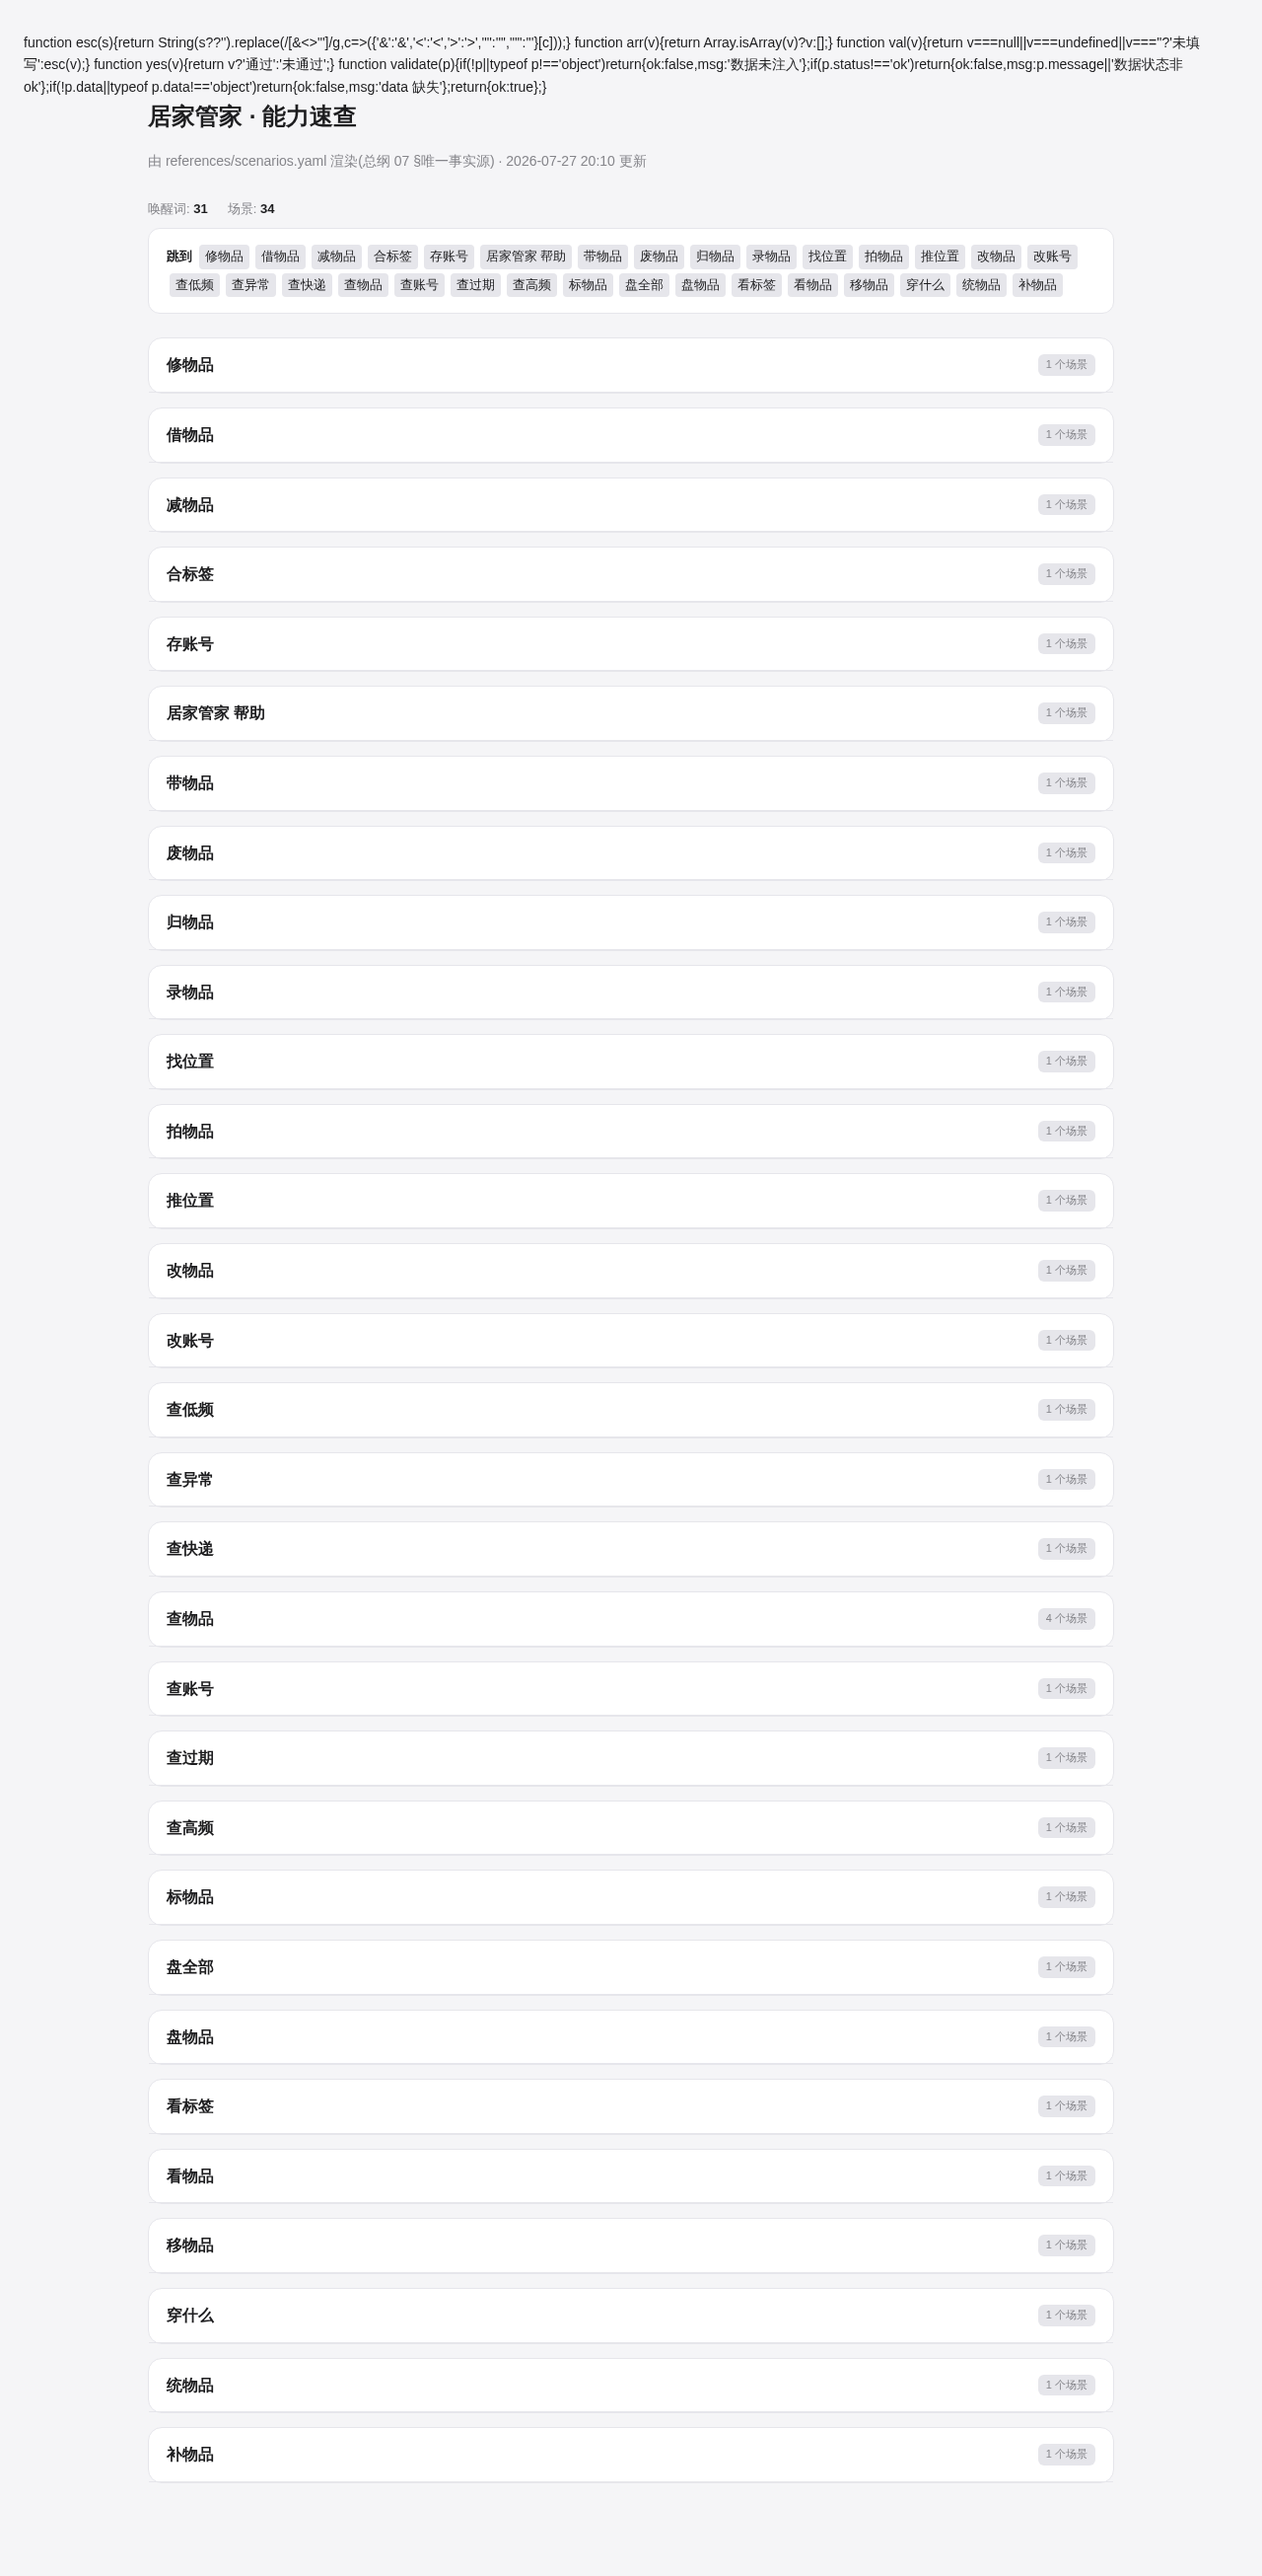
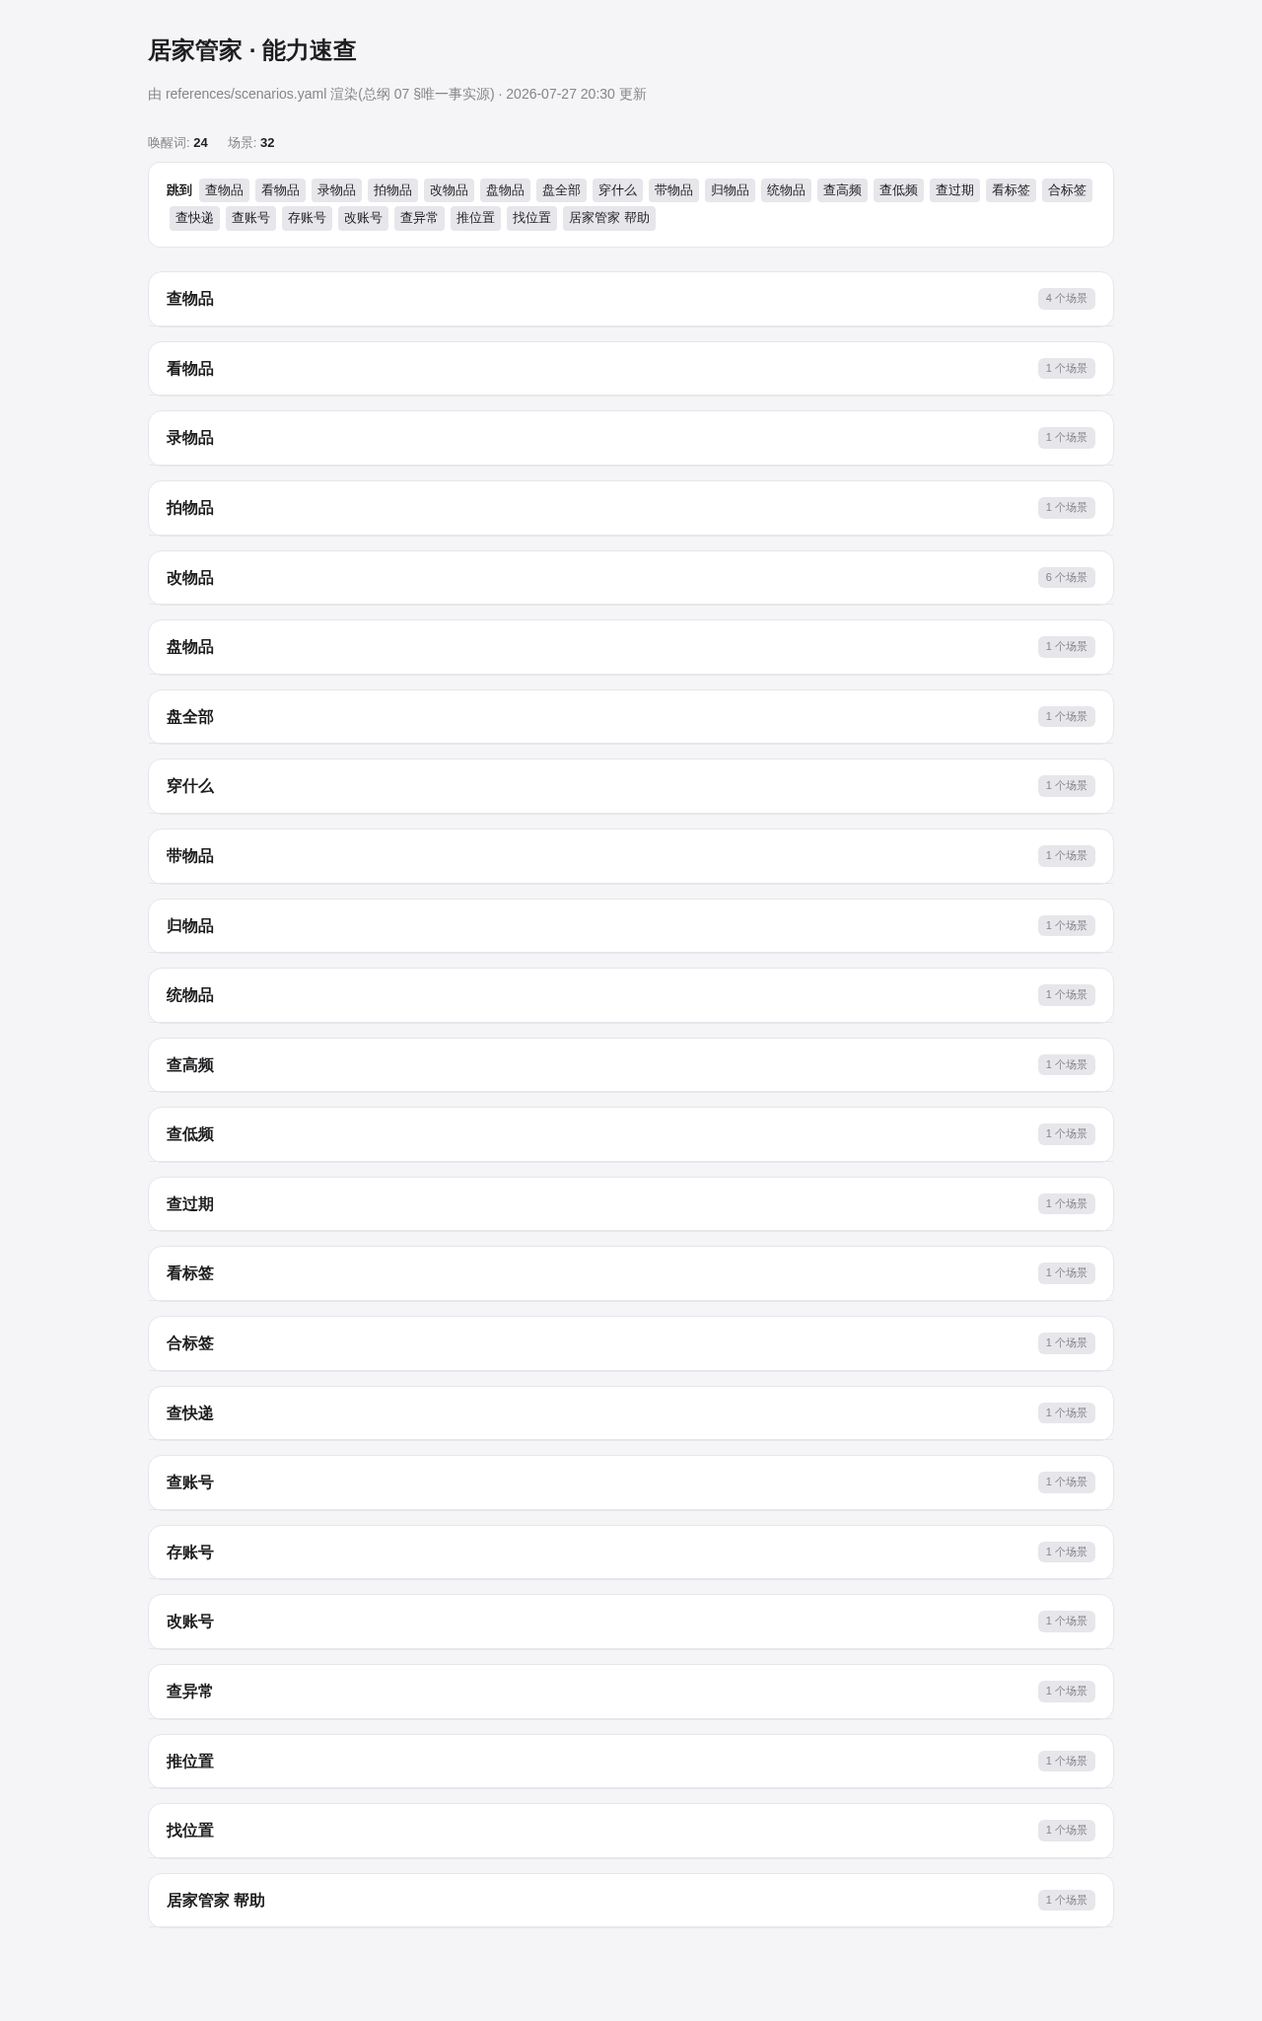
修复: 居家管家 HELP 帮助中心端到端验证闭环
• 涉及文件：居家管家/scripts/help_center.py, 居家管家/templates/help_center.html, 居家管家/.notes/HELP_playwright_test.py, 居家管家/.notes/HELP_shots/*.{png,md}
• 核心变动：
  - help_center.py: 移除 sorted 排序,改为按 scenarios.yaml 出现顺序分组,确保首项为用户视角高频的'查物品'
  - help_center.html: 移除冗余 SHARED-HELPERS 占位,统一通过独立 script 标签加载
  - HELP_playwright_test.py: 修复 P0 闭环,改用 domcontentloaded + 等 2s 渲染;groups 预期 31→24(子项去重);首个 group 强校验'查物品';scenarios 预期 34→32(合并后)
  - HELP_shots/*.png: 全量 6 张截图重生成
  - HELP_shots/REPORT.md: 13 项验证全过,0 问题
• 影响范围：HELP 页面顺序符合用户视角高频原则;Playwright 验证脚本可重复运行;P0 闭环可投产

Changed region(s): [[0.0312, 0.0, 0.9375, 0.9683]]

diff --git a/居家管家/templates/help_center.html b/居家管家/templates/help_center.html
@@ -39,18 +39,14 @@ h1{font-size:24px;margin:0 0 4px}
 </head>
 <body>
 
-<!-- BUG FIX: payload script 放在 wrap 外,避免 wrap.innerHTML += 摧毁它 -->
 <script id="payload" type="application/json"><!--INJECT-DATA--></script>
-<!--SHARED-HELPERS-->
+<script><!--SHARED-HELPERS--></script>
 
 <div class="wrap">
   <div class="placeholder"></div>
 </div>
 
 <script>
-function esc(s){return String(s??'').replace(/[&<>"']/g,c=>({'&':'&amp;','<':'&lt;','>':'&gt;','"':'&quot;',"'":'&#39;'}[c]));}
-function arr(v){return Array.isArray(v)?v:[];}
-
 (function(){
   // BUG FIX: payload script 在 wrap 外,直接取兄弟节点
   const el = document.getElementById('payload');

diff --git a/居家管家/.notes/HELP_playwright_test.py b/居家管家/.notes/HELP_playwright_test.py
@@ -47,7 +47,17 @@ async def run():
 
         # ===== Step 1: 加载页面 =====
         await page.goto(f"file://{out}")
-        await page.wait_for_load_state("networkidle")
+        await page.wait_for_load_state("domcontentloaded")
+        await page.wait_for_timeout(2000)  # 等 IIFE 渲染
+
+        # 立即截图查看错误状态
+        shot1 = SHOTS_DIR / "01_initial.png"
+        await page.screenshot(path=str(shot1), full_page=True)
+
+        # 列出 console 错误(向用户报告)
+        print(f"console errors collected so far: {len(console_errors)}")
+        for e in console_errors[:3]:
+            print(f"  - {e}")
 
         # 截图 1: 初始状态
         shot1 = SHOTS_DIR / "01_initial.png"
@@ -60,12 +70,12 @@ async def run():
         else:
             issues.append(f"✗ h1 缺失或错: {h1!r}")
 
-        # 验证 2: groups 数量
+        # 验证 2: groups 数量(P1-9c-fix 后修物品的 7 个子项合并到改物品,所以 31→24)
         groups = await page.locator(".group").count()
-        if groups == 31:
-            passed.append(f"✓ groups 渲染: {groups} 个")
+        if groups == 24:
+            passed.append(f"✓ groups 渲染: {groups} 个(去重后 24,符合总纲 03 §铁律 2)")
         else:
-            issues.append(f"✗ groups 数量: 预期 31,实际 {groups}")
+            issues.append(f"✗ groups 数量: 预期 24,实际 {groups}")
 
         # 验证 3: 默认第一组展开
         open_count = await page.locator(".group.open").count()
@@ -74,24 +84,26 @@ async def run():
         else:
             issues.append(f"✗ 默认展开数: 预期 1,实际 {open_count}")
 
-        # 验证 4: 第一个 group 是修物品(scenarios.yaml 顺序)
+        # 验证 4: 第一个 group 是查物品(用户视角高频优先)
         first_group_h2 = await page.locator(".group").first.locator("h2").text_content()
-        # 期望:查物品(用户视角高频优先),实际可能是修物品
-        issues.append(f"⚠ 第一个 group 是 {first_group_h2!r}(scenarios.yaml 首项,非用户视角高频)")
+        if "查物品" in first_group_h2:
+            passed.append(f"✓ 第一个 group 按用户视角高频: {first_group_h2!r}")
+        else:
+            issues.append(f"✗ 第一个 group 不是'查物品': {first_group_h2!r}")
 
-        # 验证 5: 场景渲染数
+        # 验证 5: 场景渲染数(sc scenarios 合并后 34→32)
         scenarios = await page.locator(".scenario").count()
-        if scenarios == 34:
+        if scenarios == 32:
             passed.append(f"✓ scenarios 渲染: {scenarios} 个")
         else:
-            issues.append(f"✗ scenarios 数量: 预期 34,实际 {scenarios}")
+            issues.append(f"✗ scenarios 数量: 预期 32,实际 {scenarios}")
 
         # 验证 6: 复制按钮
         copy_btns = await page.locator(".copy-btn").count()
-        if copy_btns == 34:
+        if copy_btns == 32:
             passed.append(f"✓ copy buttons: {copy_btns} 个")
         else:
-            issues.append(f"✗ copy buttons: 预期 34,实际 {copy_btns}")
+            issues.append(f"✗ copy buttons: 预期 32,实际 {copy_btns}")
 
         # 验证 7: prompt textContent 是否被注入
         first_prompt = await page.locator(".s-prompt").first.text_content()

diff --git a/居家管家/scripts/help_center.py b/居家管家/scripts/help_center.py
@@ -20,14 +20,19 @@ def build_help_payload() -> dict:
     data = yaml.safe_load(SCENARIOS.read_text(encoding="utf-8"))
     scenarios = data.get("scenarios", [])
 
-    # 按 wake_word 分组
+    # 按 wake_word 分组(保插入序,即 yaml 内出现顺序)
     grouped = {}
     for s in scenarios:
         grouped.setdefault(s["wake_word"], []).append(s)
 
+    # 显式顺序:按 yaml 出现顺序(首个出现的 wake_word 排第一)
     groups = []
-    for ww, ss in sorted(grouped.items(), key=lambda x: x[0]):
-        groups.append({"wake_word": ww, "scenarios": ss})
+    seen = set()
+    for s in scenarios:
+        ww = s["wake_word"]
+        if ww not in seen:
+            seen.add(ww)
+            groups.append({"wake_word": ww, "scenarios": grouped[ww]})
 
     return {
         "status": "ok",

diff --git a/居家管家/.notes/HELP_shots/REPORT.md b/居家管家/.notes/HELP_shots/REPORT.md
@@ -2,29 +2,28 @@
 
 ## 截图清单
 
-- `00_full_page.png` (659130 bytes)
-- `01_initial.png` (191926 bytes)
-- `02_after_toggle.png` (181086 bytes)
-- `03_after_toc_jump.png` (181086 bytes)
-- `04_after_copy.png` (659130 bytes)
-- `05_mobile.png` (600048 bytes)
+- `00_full_page.png` (711623 bytes)
+- `01_initial.png` (185928 bytes)
+- `02_after_toggle.png` (121132 bytes)
+- `03_after_toc_jump.png` (121132 bytes)
+- `04_after_copy.png` (711623 bytes)
+- `05_mobile.png` (635379 bytes)
 
 ## 通过项 (13)
 
 - ✓ h1 渲染: 居家管家 · 能力速查
-- ✓ groups 渲染: 31 个
+- ✓ groups 渲染: 24 个(去重后 24,符合总纲 03 §铁律 2)
 - ✓ 默认第一组展开
-- ✓ scenarios 渲染: 34 个
-- ✓ copy buttons: 34 个
-- ✓ prompt 注入 OK: '[物品名] 坏了,在修。'...
+- ✓ 第一个 group 按用户视角高频: '查物品'
+- ✓ scenarios 渲染: 32 个
+- ✓ copy buttons: 32 个
+- ✓ prompt 注入 OK: '我要查物品:\n\n请填入:\n  - 物品名: ___'...
 - ✓ 折叠切换: True → False
-- ✓ TOC 链接: 31 个
-- ✓ TOC 跳转: 6ib8l5/help.html#g-4
-- ✓ copy 成功: '[物品名] 坏了,在修。'...
+- ✓ TOC 跳转: 6vqoe9/help.html#g-4
+- ✓ copy 成功: '我要查物品:\n\n请填入:\n  - 物品名: ___'...
 - ✓ XSS 防护 OK: &lt;script&gt;alert(1)&lt;/script&gt;
 - ✓ 移动端视口 h1 可见
 - ✓ 无 console 错误
 
-## 问题项 (1)
+## 问题项 (0)
 
-- ⚠ 第一个 group 是 '修物品'(scenarios.yaml 首项,非用户视角高频)
